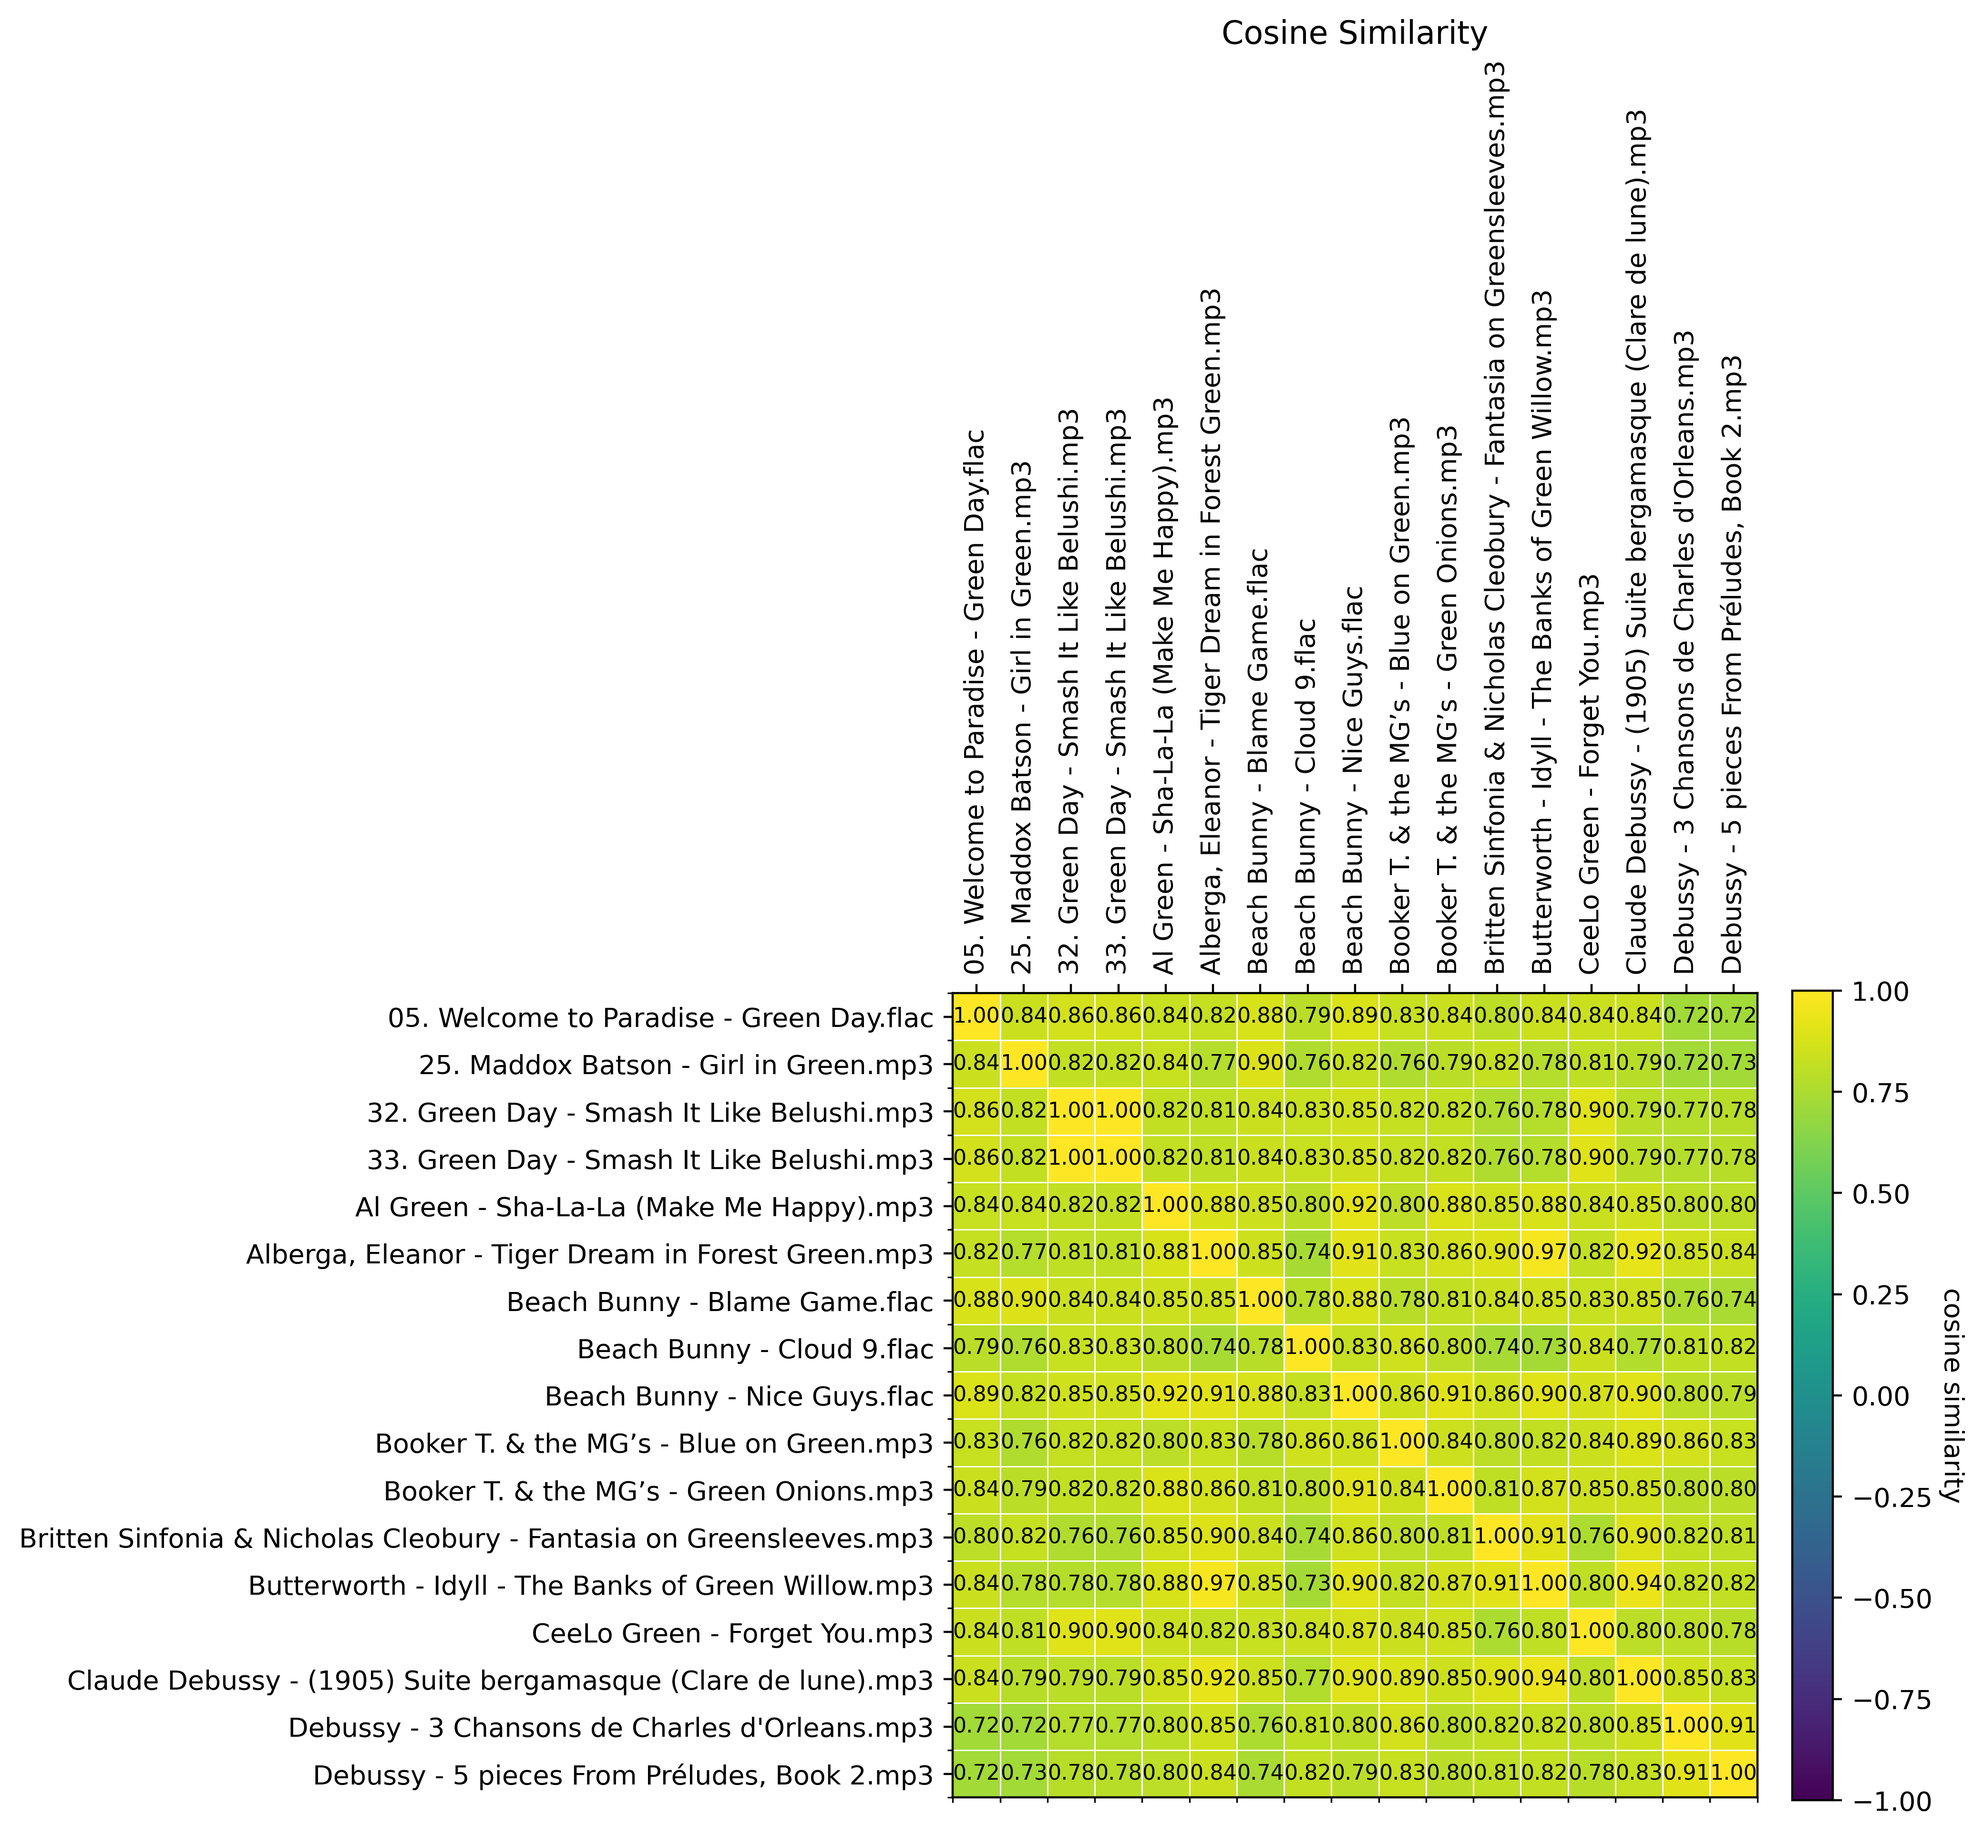
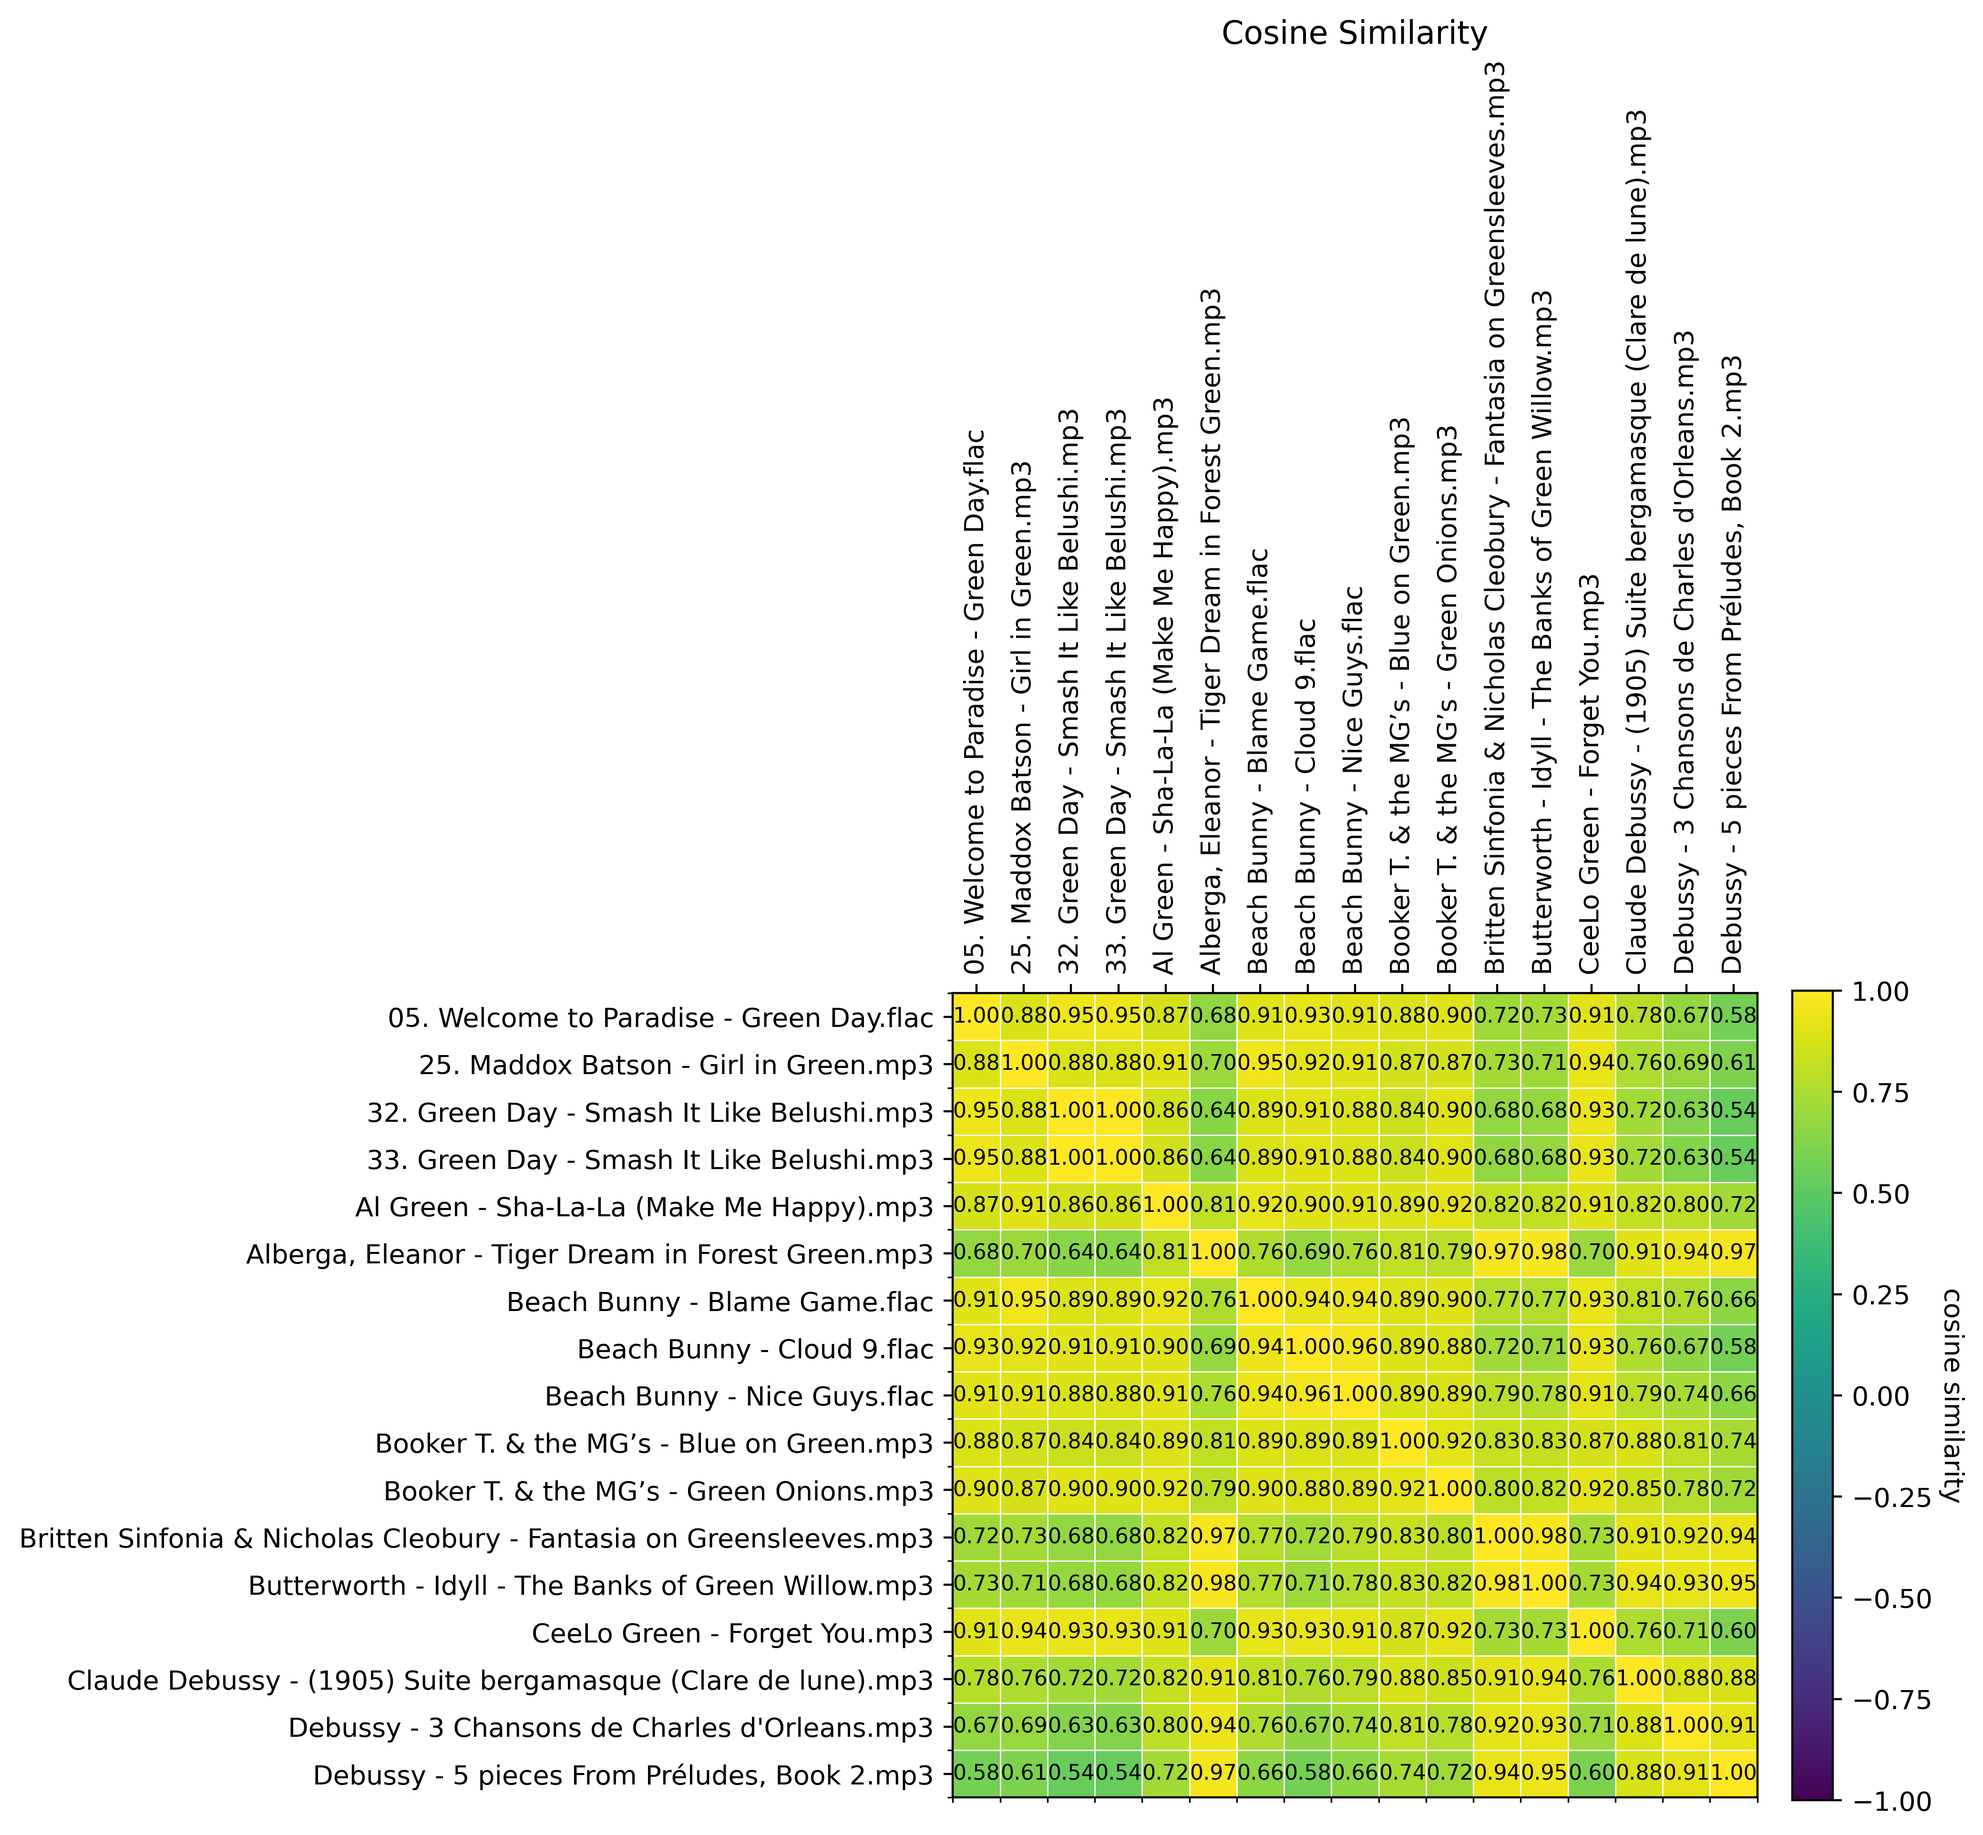
landed on final enirchment method

Changed region(s): [[0.4653, 0.53, 0.8995, 0.9977]]

diff --git a/python_services/embedding_models.py b/python_services/embedding_models.py
@@ -671,8 +671,8 @@ def _signed_power(v: torch.Tensor, gamma: float = 0.5) -> torch.Tensor:
 
 def postprocess_enriched(v: torch.Tensor) -> torch.Tensor:
     """Apply block normalization, signed power, then global L2 normalization."""
-    v = _block_normalize(v, num_blocks=6)
-    v = _signed_power(v, gamma=0.5)
+    #v = _block_normalize(v, num_blocks=6)
+    #v = _signed_power(v, gamma=0.5)
     return F.normalize(v, p=2, dim=0)
 
 def flatten_and_enrich_embedding(embedding: torch.Tensor) -> torch.Tensor:
@@ -687,7 +687,7 @@ def flatten_and_enrich_embedding(embedding: torch.Tensor) -> torch.Tensor:
 
     # per-dimension mean and std over time
     mean = x.mean(dim=-1)                                  # [D]
-    std = x.var(dim=-1, unbiased=False).clamp_min(1e-12).sqrt()
+    #std = x.var(dim=-1, unbiased=False).clamp_min(1e-12).sqrt()
 
     # robust spread via IQR
     q25 = torch.quantile(x, 0.25, dim=-1)                  # [D]
@@ -698,17 +698,19 @@ def flatten_and_enrich_embedding(embedding: torch.Tensor) -> torch.Tensor:
     if T >= 2:
         dx = x[:, 1:] - x[:, :-1]                          # [D, T-1]
         dmean = dx.mean(dim=-1)
-        dstd  = dx.var(dim=-1, unbiased=False).clamp_min(1e-12).sqrt()
-        dq25 = torch.quantile(dx, 0.25, dim=-1)
-        dq75 = torch.quantile(dx, 0.75, dim=-1)
-        drobust = (dq75 - dq25) / _IQR_TO_SIGMA
+        #dstd  = dx.var(dim=-1, unbiased=False).clamp_min(1e-12).sqrt()
+        #dq25 = torch.quantile(dx, 0.25, dim=-1)
+        #dq75 = torch.quantile(dx, 0.75, dim=-1)
+        #drobust = (dq75 - dq25) / _IQR_TO_SIGMA
     else:
         # keep length constant when T < 2
         dmean = torch.zeros(D, device=x.device, dtype=x.dtype)
-        dstd  = torch.zeros(D, device=x.device, dtype=x.dtype)
-        drobust = torch.zeros(D, device=x.device, dtype=x.dtype)
+        #dstd  = torch.zeros(D, device=x.device, dtype=x.dtype)
+        #drobust = torch.zeros(D, device=x.device, dtype=x.dtype)
 
-    vec = torch.cat([mean, std, robust, dmean, dstd, drobust], dim=0)  # [6*D]
+    #vec = torch.cat([mean, std, robust, dmean, dstd, drobust], dim=0)  # [6*D]
+    vec = torch.cat([mean, robust, dmean], dim=0)  # [3*D]
+
     return postprocess_enriched(vec).to("cpu")
 
 
